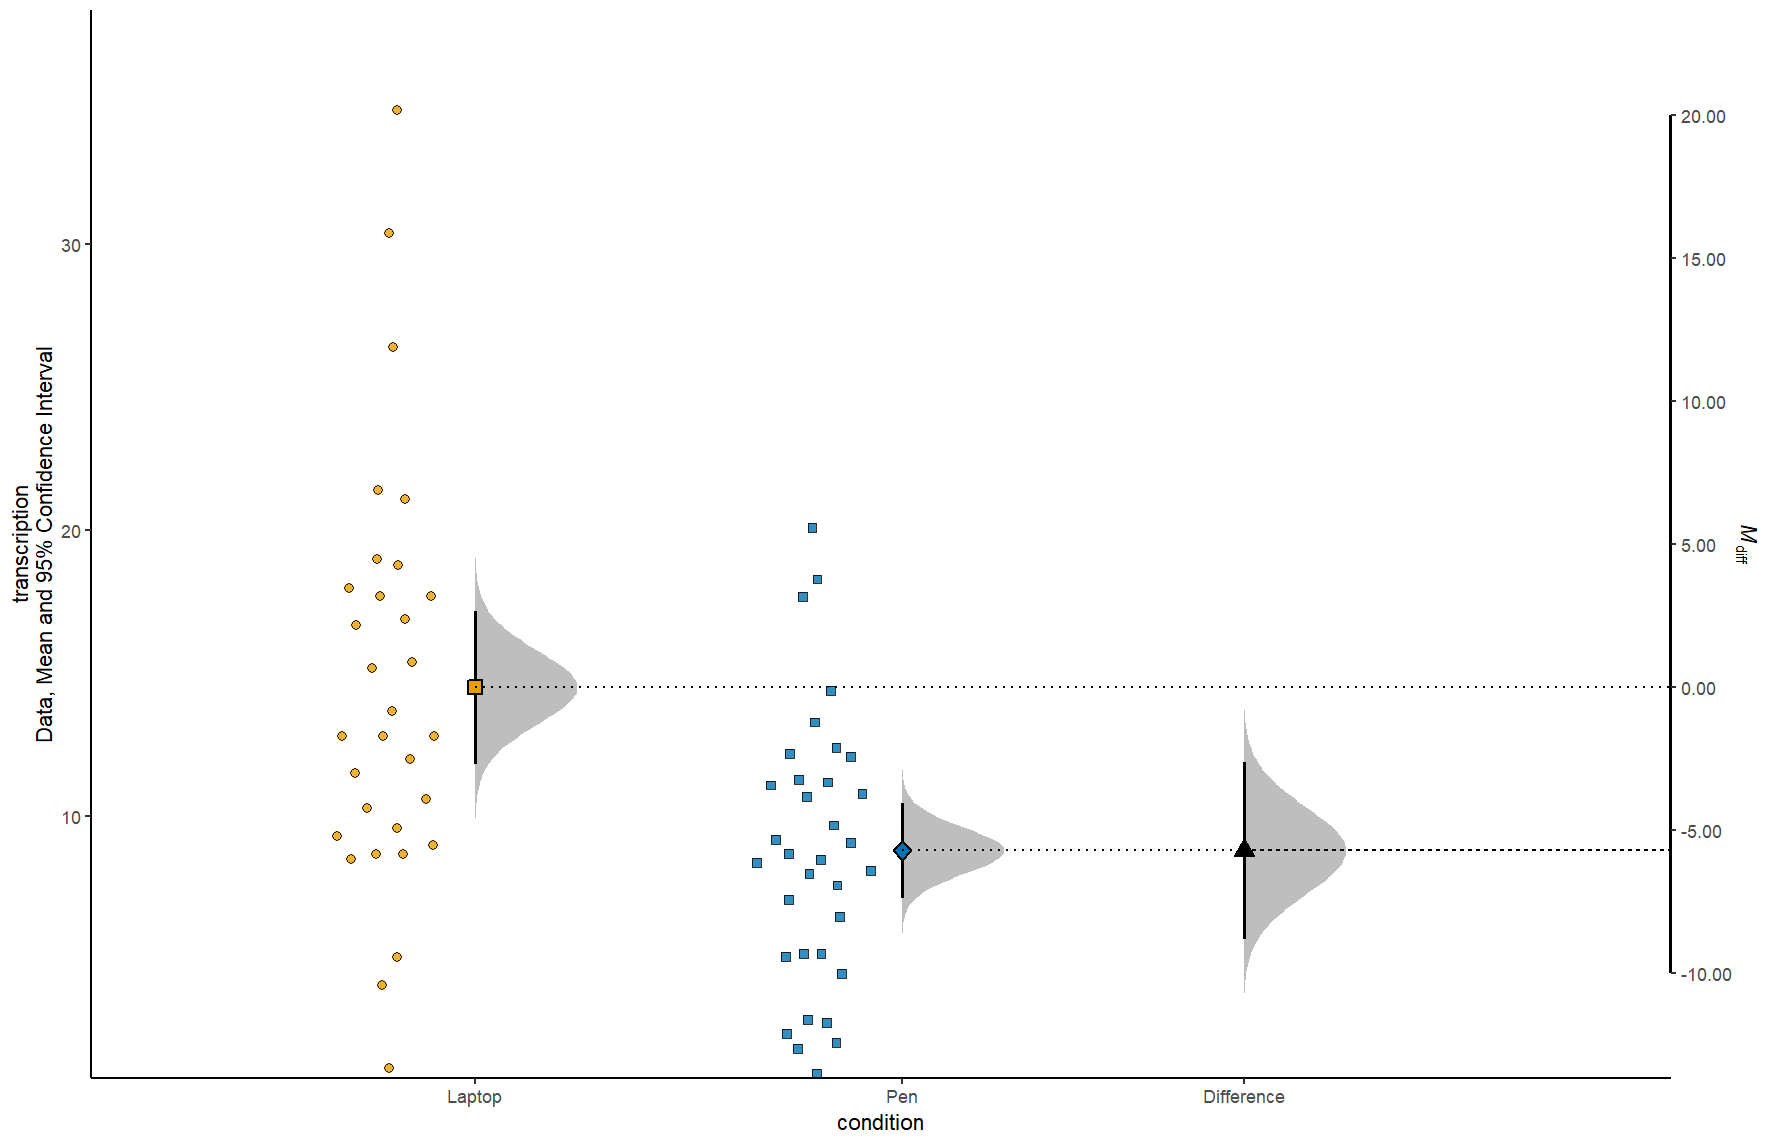
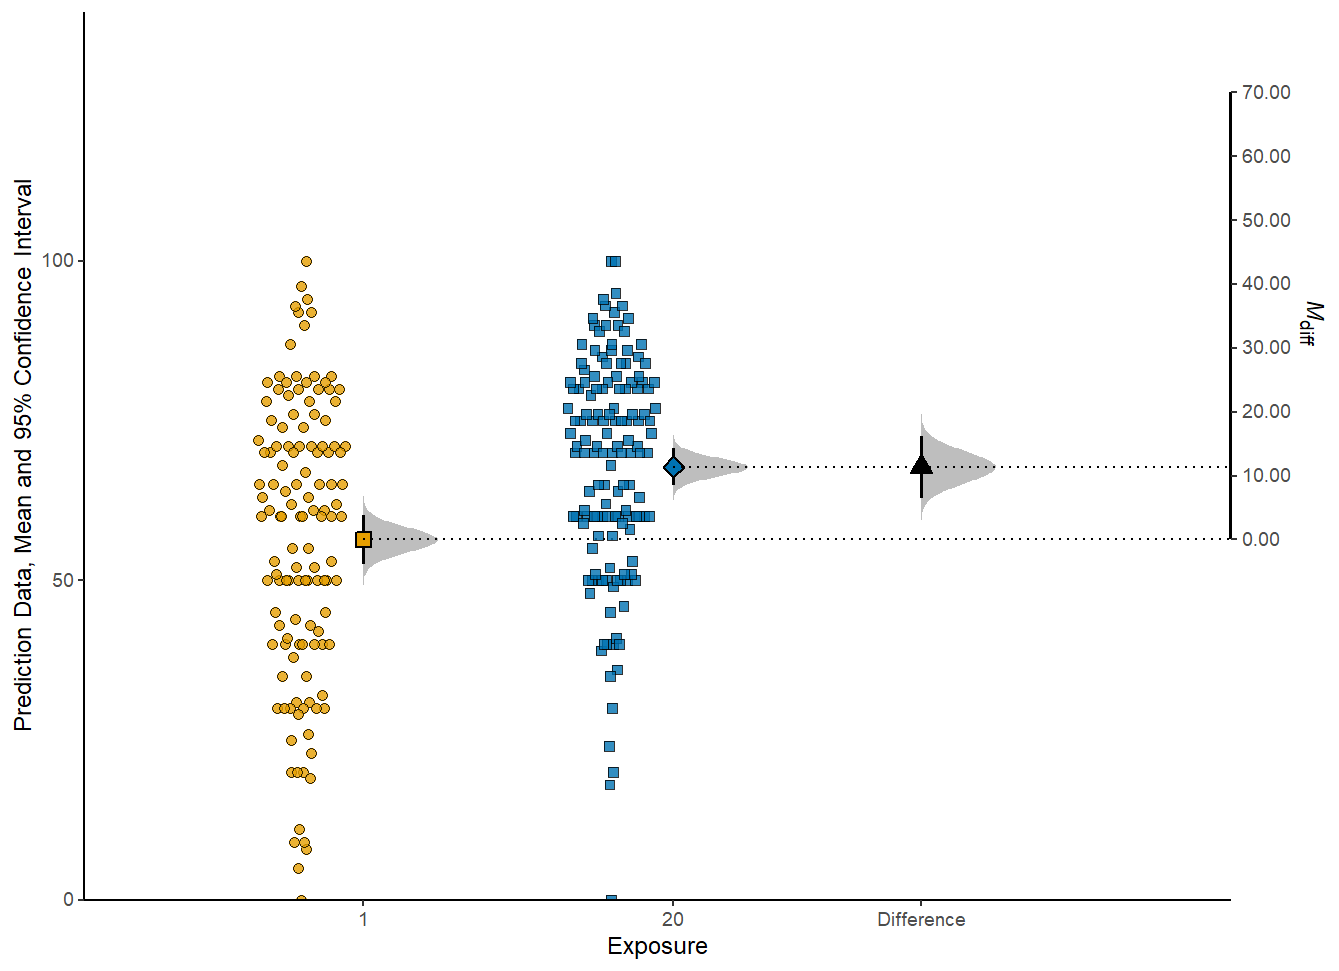
readme updates

diff --git a/README.md b/README.md
@@ -1,57 +1,66 @@
-# esci: Estimation Statistics with Confidence Intervals <img src="man/figures/esci_logo.svg" align="right" alt = "esci logo"/>
+---
+editor_options: 
+  markdown: 
+    wrap: 72
+---
+
+# esci: Estimation Statistics with Confidence Intervals <img src="man/figures/esci_logo.svg" alt="esci logo" align="right"/>
 
 [![CRAN
 status](https://www.r-pkg.org/badges/version/esci)](https://CRAN.R-project.org/package=esci)
-![Download
-count](https://cranlogs.r-pkg.org/badges/last-month/esci)
+![Download count](https://cranlogs.r-pkg.org/badges/last-month/esci)
 
 esci provides student-friendly tools for estimation statistics:
 
-- effect sizes with confidence intervals for many research designs
-- meta-analysis
-- visualizations emphasizing effect sizes and uncertainty
-- strong hypothesis testing with interval nulls
+-   effect sizes with confidence intervals for many research designs
+-   meta-analysis
+-   visualizations emphasizing effect sizes and uncertainty
+-   strong hypothesis testing with interval nulls
 
+esci is both an R package and a module in
+[jamovi](https://www.jamovi.org/). If you're looking for the R package,
+stay here. If you want esci in jamovi, download and install jamovi and
+[then use the module library to add
+esci](https://thenewstatistics.com/itns/esci/jesci/).
 
-esci is both an R package and a module in [jamovi](https://www.jamovi.org/).  If
-you're looking for the R package, stay here.  If you want esci in jamovi,
-download and install jamovi and 
-[then use the module library to add esci](https://thenewstatistics.com/itns/esci/jesci/).
-
-
-Leave comments, bug reports, suggestions, and questions about esci 
+Leave comments, bug reports, suggestions, and questions about esci
 [here](https://github.com/rcalinjageman/esci/discussions)
 
-
 **esci is still under development; expect breaking changes in the future
-especially for the visualization functions**.  If you need production-ready
-estimation, turn to [statpsych](https://cran.r-project.org/package=statpsych)
+especially for the visualization functions**. If you need
+production-ready estimation, turn to
+[statpsych](https://cran.r-project.org/package=statpsych)
 
+esci is built on top of
+[statpsych](https://cran.r-project.org/package=statpsych) and
+[metafor](https://www.metafor-project.org/doku.php/metafor). That is,
+almost all of the statistical calculations are passed off to these
+packages. The only exception is for confidence intervals for Cohen's *d*
+(see documentation). Why does esci exist, then?
 
-esci is built on top of [statpsych](https://cran.r-project.org/package=statpsych) and
-[metafor](https://www.metafor-project.org/doku.php/metafor).  That is, almost 
-all of the statistical calculations are passed off to these packages.  The 
-only exception is for confidence intervals for Cohen's d (see documentation).
-Why does esci exist, then?
+-   To provide a design-based approach; each function in esci is for one
+    type of research design (e.g. two groups with a continuous
+    variable); it provides all the effect sizes relevant to that design
+    in one convenient function (e.g. mean difference, cohen's *d*,
+    median difference, ratio of means, ratio of medians).
+-   To make visualization easier; esci provides visualizations that
+    emphasize effect sizes and uncertainty
+-   To integrate with GUIs for students; esci integrates into
+    [jamovi](https://www.jamovi.org/) and (very soon)
+    [JASP](https://jasp-stats.org/).
+-   To support student learning, from intro to advanced levels; esci is
+    extensively used in the recently released second edition of our
+    intro textbook (<https://thenewstatistics.com/itns/>) and should be
+    ideal for use in higher level and graduate courses.
 
-- To provide a design-based approach; each function in esci is for one type of
-research design (e.g. two groups with a continuous variable); it provides
-all the effect sizes relevant to that design in one convenient function (e.g.
-mean difference, cohen's d, median difference, ratio of means, ratio of
-medians).  
-- To make visualization easier; esci provides visualizations that emphasize
-effect sizes and uncertainty
-- To integrate with GUIs for students; esci integrates into [jamovi](https://www.jamovi.org/)
-and integration into [JASP](https://jasp-stats.org/) is planned.
-
-The visualizations produced by esci are exquisite in a large part because of
-the lovely [ggdist](https://CRAN.R-project.org/package=ggdist) 
-package by Matthew Kay.
-
+The visualizations produced by esci are exquisite in a large part
+because of the lovely
+[ggdist](https://CRAN.R-project.org/package=ggdist) package by Matthew
+Kay.
 
 ## Installation
 
-esci is availableon CRAN; you can install with: 
+esci is availableon CRAN; you can install with:
 
 ``` r
 install.packages("esci")
@@ -65,34 +74,34 @@ devtools::install_github('rcalinjageman/esci')
 ```
 
 Or, try out the development branch:
+
 ``` r
 # install.packages("devtools")
 devtools::install_github('rcalinjageman/esci',  branch = "development")
 ```
 
-
 ## Roadmap
-- Finish writing documentation and tests
-- Review all functions for consistency of parameter names and returned object
-names
-- Rewrite visualization functions completely to remove clunky approaches
-to the difference axis and other issues
-- Complete JASP integration
-- Rewrite jamovi integration
-- Add prediction intervals for basic designs
-- Repeated measures with 1 IV and multiple groups
-- Fully within-subjects 2x2 design
-- Arbitrarily complex designs
 
+-   Finish writing documentation and tests
+-   Review all functions for consistency of parameter names and returned
+    object names
+-   Rewrite visualization functions completely to remove clunky
+    approaches to the difference axis and other issues
+-   Complete JASP integration
+-   Rewrite jamovi integration
+-   Add prediction intervals for basic designs
+-   Repeated measures with 1 IV and multiple groups
+-   Fully within-subjects 2x2 design
+-   Arbitrarily complex designs
 
 ## Example
+
 ``` r
 library(esci)
 
-data("data_penlaptop1")
-estimate <- estimate_mdiff_two(data_penlaptop1, transcription, condition)
+data("data_kardas_expt_4")
+estimate <- estimate_mdiff_two(data_kardas_expt_4, Prediction, Exposure)
 plot_mdiff(estimate)
-
 ```
 
-<img src="man/figures/plot_mdiff.png" align="right" alt="Example difference plot"/>
+<img src="man/figures/plot_mdiff.png" alt="Example difference plot" align="right"/>
